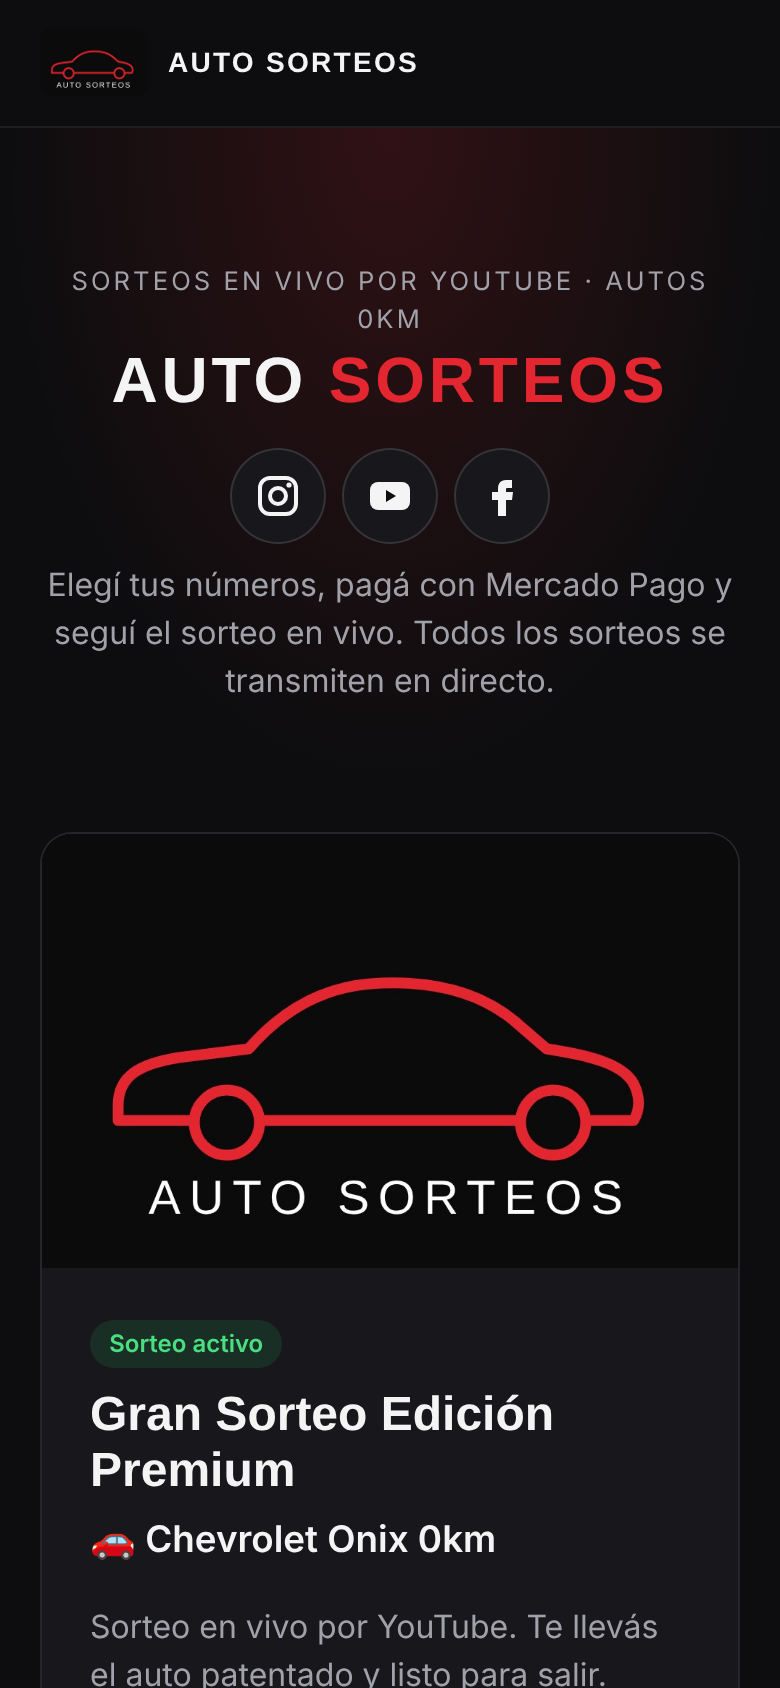
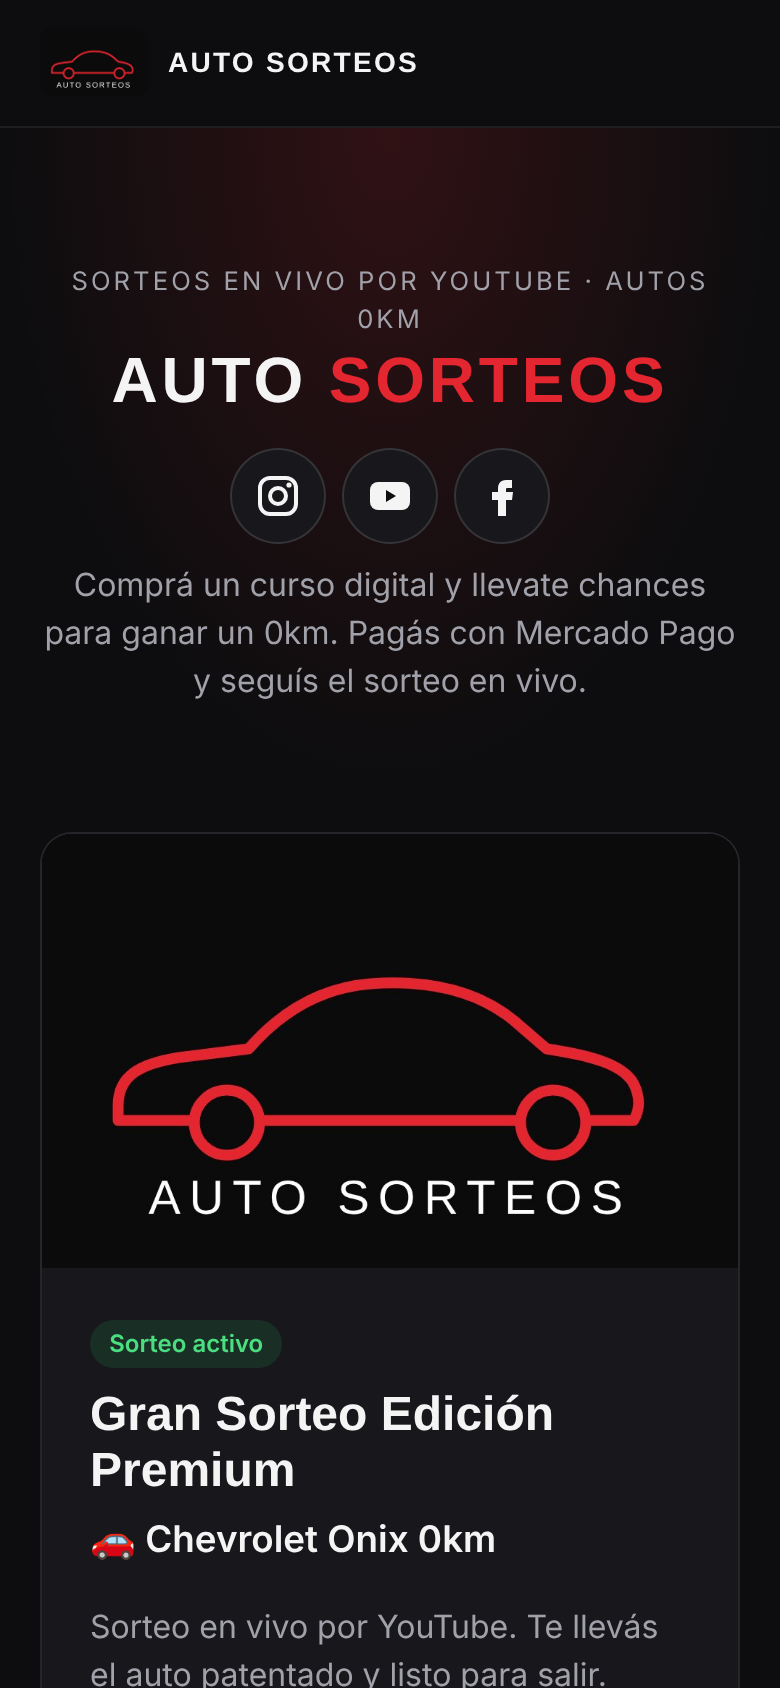
docs: update readme, architecture and roadmap for the pack model

Changed region(s): [[0.0615, 0.3389, 0.9538, 0.4313]]

diff --git a/README.md b/README.md
@@ -6,14 +6,16 @@
 ![PostgreSQL](https://img.shields.io/badge/postgresql-16-4169E1?logo=postgresql&logoColor=white)
 ![Mercado Pago](https://img.shields.io/badge/pagos-Mercado%20Pago-00B1EA)
 
-Plataforma web para organizar **sorteos en vivo de autos 0km**: los participantes eligen sus números (o una promo por cantidad), pagan con **Mercado Pago** y siguen el sorteo por YouTube. El organizador administra todo desde un panel: sorteos, ventas, ventas manuales, número ganador y exportación de compradores.
+Plataforma web para organizar **sorteos en vivo de autos 0km** con un modelo de **venta de cursos digitales**: el participante compra un curso y recibe chances de regalo para el sorteo. Paga con **Mercado Pago**, recibe sus números automáticamente al acreditarse el pago y sigue el sorteo por YouTube. El organizador administra todo desde un panel: cursos, packs de chances, ventas, ventas manuales, número ganador y exportación de compradores.
 
 Desarrollada para una concesionaria y publicada como versión **white-label**: la marca de cada cliente (nombre, logo, colores, redes) se configura en un solo archivo y queda fuera del repositorio.
 
 <p align="center">
-  <img src="docs/screenshots/home-mobile.png" width="240" alt="Landing en celular" />
+  <img src="docs/screenshots/home-mobile.png" width="220" alt="Landing en celular" />
   &nbsp;
-  <img src="docs/screenshots/seleccion-promo-mobile.png" width="240" alt="Selección guiada por promo" />
+  <img src="docs/screenshots/compra-mobile.png" width="220" alt="Elección de pack y oferta Duplicá" />
+  &nbsp;
+  <img src="docs/screenshots/confirmacion-mobile.png" width="220" alt="Confirmación con los números asignados" />
 </p>
 
 <p align="center">
@@ -23,26 +25,27 @@ Desarrollada para una concesionaria y publicada como versión **white-label**: l
 ## Funcionalidades
 
 **Para el participante**
-- Grilla de números en tiempo real (libres, reservados, vendidos), búsqueda y elección al azar.
-- **Promos por cantidad** (ej. 1 × $10.000, 2 × $15.000, 5 × $30.000): al elegir una promo, el sistema guía la selección con un contador y lleva al pago al completar.
-- Siempre cobra la combinación más barata de promos y muestra el ahorro.
-- Pago con Mercado Pago Checkout Pro y página de estado de la compra que funciona como comprobante.
+- Elige un curso y un pack de chances. Cada pack muestra el precio por chance y el ahorro real contra el pack más chico, sin precios tachados inventados.
+- Oferta **"Duplicá tus chances"**: el doble de chances pagando un extra por chance.
+- Paga con Mercado Pago Checkout Pro (también en efectivo, porque no hay reserva que pueda vencer).
+- Recibe sus números **consecutivos** (desde el 100000) apenas se acredita el pago, en una página que funciona como comprobante.
+- Barra de progreso de chances vendidas y bases y condiciones con los precios de cada pack.
 - Página de links para la bio de Instagram, con el sorteo activo y las redes.
 
 **Para el organizador**
-- Crear sorteos, publicar, cerrar la venta y editar promos.
-- Recaudación, números vendidos, reservados y libres.
-- Venta manual (efectivo o transferencia).
+- ABM de cursos con subida del PDF; la descarga se hace con links firmados que vencen.
+- Packs de chances y oferta "Duplicá" editables por sorteo, con vista previa de lo que ve el comprador.
+- Recaudación, chances vendidas, compras, pendientes y compras para revisar.
+- Venta manual (efectivo o transferencia) con asignación de números en el acto.
 - Carga del número ganador con los datos del comprador.
 - Exportación de compradores a CSV (Excel).
 
 ## Lo técnico más interesante
 
-- **Sin números duplicados:** reserva con `SELECT … FOR UPDATE` dentro de una transacción; dos compras simultáneas del mismo número no pueden prosperar.
-- **Reservas que vencen:** el número queda reservado 15 minutos mientras se paga y se libera solo si el pago no llega.
-- **Webhook seguro e idempotente:** valida la firma `x-signature` de Mercado Pago, consulta el pago a la API (no confía en el aviso) y controla el monto. Avisos repetidos no duplican ventas.
-- **Casos borde contemplados:** pagos acreditados tarde o con monto distinto quedan en estado `needs_review` para reintegro.
-- **Precio óptimo con promos:** programación dinámica (problema de la mochila no acotada) para cobrar la combinación más barata.
+- **Números sin duplicados aunque los pagos lleguen a la vez:** cada sorteo tiene un contador que se incrementa con un único `UPDATE … RETURNING` atómico, más un índice único `(sorteo, número)` como red de seguridad. Probado con pagos simultáneos contra **PostgreSQL real en el CI**.
+- **Webhook seguro e idempotente:** valida la firma `x-signature` de Mercado Pago, consulta el pago a la API (no confía en el aviso), controla el monto y bloquea la orden (`FOR UPDATE`). Avisos repetidos no asignan números de nuevo.
+- **El total lo calcula siempre el backend**, en centavos enteros. El frontend solo muestra lo que devuelve la API.
+- **Archivos seguros:** el PDF se valida por contenido (magic bytes), se guarda fuera del repo detrás de una interfaz intercambiable (disco hoy, S3/R2 después) y se descarga con un JWT de propósito único que vence.
 - **Modo demo:** una API simulada dentro del navegador permite mostrar el producto completo sin servidor.
 
 Más detalle en [`docs/ARCHITECTURE.md`](docs/ARCHITECTURE.md).
@@ -54,7 +57,7 @@ Más detalle en [`docs/ARCHITECTURE.md`](docs/ARCHITECTURE.md).
 | Backend | Node.js 22, Express 5, Sequelize, PostgreSQL, JWT, bcrypt, Helmet, rate limiting |
 | Pagos | Mercado Pago Checkout Pro + Webhooks |
 | Frontend | React 18 (Create React App), React Router |
-| Tests | `node:test` + Supertest (SQLite en memoria) |
+| Tests | `node:test` + Supertest, con SQLite en memoria y PostgreSQL 16 en el CI |
 | Infra | Docker, Docker Compose, GitHub Actions |
 
 ## Cómo correrlo
@@ -86,20 +89,20 @@ Para probar pagos se usan las **credenciales y usuarios de prueba** de Mercado P
 
 | Método | Ruta | Descripción |
 |---|---|---|
-| GET | `/api/raffles` | Sorteos publicados |
-| GET | `/api/raffles/:id/numbers` | Estado de la grilla (`0` libre, `1` reservado, `2` vendido) |
-| POST | `/api/orders` | Reserva números y devuelve la URL de pago |
-| GET | `/api/orders/:id` | Estado de una compra |
-| GET | `/api/raffles/:id/packs` | Packs a la venta con el total de "Duplicá" ya calculado |
+| GET | `/api/raffles` | Sorteos publicados, con chances vendidas y precio desde |
+| GET | `/api/raffles/:id/packs` | Packs a la venta: precio por chance, ahorro real y total con "Duplicá" |
+| POST | `/api/raffles/:id/quote` | Cotización de una compra (`packId`, `double`) |
 | POST | `/api/raffles/:id/purchases` | Compra de curso + pack (`courseId`, `packId`, `double`, `buyer`): devuelve el link de pago |
-| POST | `/api/raffles/:id/quote` | Cotización de una compra (`packId`, `double`): el total lo calcula siempre el backend |
+| GET | `/api/orders/:id` | Estado de una compra y números asignados |
 | GET | `/api/courses` | Cursos activos |
 | GET | `/api/courses/download?token=` | Descarga del PDF con link firmado y con vencimiento |
-| POST | `/api/webhooks/mercadopago` | Notificaciones de pago |
+| POST | `/api/webhooks/mercadopago` | Notificaciones de pago: asigna los números al aprobarse |
 | POST | `/api/admin/login` | Login del administrador (JWT) |
 | GET/PUT | `/api/admin/raffles/:id/packs` | Packs del sorteo y oferta "Duplicá" (alta, edición y baja en una transacción) |
 | GET/POST/PATCH/DELETE | `/api/admin/courses` | ABM de cursos con subida de PDF (`multipart/form-data`) |
-| … | `/api/admin/*` | Sorteos, estadísticas, ventas, ganador, exportación |
+| POST | `/api/admin/orders/manual` | Venta manual: asigna los números en el acto |
+| POST | `/api/admin/raffles/:id/winner` | Busca al dueño del número ganador |
+| … | `/api/admin/*` | Sorteos, estadísticas, compras, exportación CSV |
 
 ## Cómo se trabaja
 

diff --git a/docs/ARCHITECTURE.md b/docs/ARCHITECTURE.md
@@ -23,36 +23,38 @@ sequenceDiagram
   participant DB as PostgreSQL
   participant MP as Mercado Pago
 
-  C->>W: Elige números
-  W->>API: POST /api/orders
-  API->>DB: SELECT ... FOR UPDATE (números libres)
-  API->>DB: Reserva 15 min + crea orden
+  C->>W: Elige curso + pack (+ "Duplicá")
+  W->>API: POST /api/raffles/:id/purchases
+  API->>API: Cotiza (packs.quote, en centavos)
+  API->>DB: Crea la orden pendiente (sin números)
   API->>MP: Crea preferencia (external_reference = orden)
   API-->>W: checkoutUrl
   W->>MP: Redirige al checkout
   C->>MP: Paga
   MP->>API: Webhook (x-signature)
   API->>MP: GET /payments/:id (no confía en el aviso)
-  API->>DB: Valida monto, marca números vendidos
+  API->>DB: Bloquea la orden (FOR UPDATE) y valida el monto
+  API->>DB: UPDATE nextNumber = nextNumber + N RETURNING (bloque consecutivo)
+  API->>DB: Inserta las chances y aprueba la orden
   MP-->>W: Vuelve a /compra/:id
-  W->>API: GET /api/orders/:id (polling)
+  W->>API: GET /api/orders/:id (polling hasta ver los números)
 ```
 
 ## Decisiones
 
 | Decisión | Motivo |
 |---|---|
-| Bloqueo de filas con `SELECT … FOR UPDATE` | Dos compradores no pueden quedarse con el mismo número aunque compren en el mismo milisegundo. |
-| Reserva con vencimiento (15 min) | El número queda tomado mientras se paga, y se libera solo si no se paga. |
-| Consultar el pago a Mercado Pago en el webhook | El cuerpo del aviso no es confiable; se valida firma, estado y monto contra la API. |
-| Webhook idempotente | Mercado Pago reintenta avisos; procesar dos veces el mismo pago no duplica ventas. |
-| Estado `needs_review` | Pagos con monto distinto o acreditados después de que el número se vendió quedan para revisión manual y reintegro. |
-| Medios en efectivo excluidos | Se acreditan días después, cuando la reserva ya venció. |
-| Precio con promos calculado en el backend | El total que se cobra nunca depende del navegador. La misma función corre en el frontend solo para mostrarlo. |
-| Números consecutivos asignados al confirmarse el pago | El comprador elige un pack, no números. Sin reserva previa no hay números "tomados" por compras que nunca se pagan. |
+| Números asignados recién al confirmarse el pago | El comprador elige un pack, no números. Sin reserva previa no hay números "tomados" por compras que nunca se pagan, ni vencimientos que administrar. |
 | Contador por sorteo con un `UPDATE … RETURNING` atómico | La base serializa los UPDATE sobre la misma fila: pagos simultáneos reciben bloques distintos. Se evita "leer y después escribir", donde aparecen los duplicados. |
 | Índice único `(RaffleId, number)` | Red de seguridad: la base rechaza un número repetido aunque haya un bug en la lógica. |
 | El contador nunca retrocede | Un número anulado (reintegro, contracargo) no se vuelve a asignar: cada número identifica una sola compra para siempre. |
+| Consultar el pago a Mercado Pago en el webhook | El cuerpo del aviso no es confiable; se valida firma, estado y monto contra la API. |
+| Webhook idempotente con la orden bloqueada | Mercado Pago reintenta avisos; procesar dos veces el mismo pago no asigna números de nuevo. |
+| Estado `needs_review` | Pagos con un monto distinto al de la orden quedan para revisión manual y reintegro. |
+| Total calculado en el backend, en centavos enteros | El total que se cobra nunca depende del navegador, y no hay errores de coma flotante. |
+| Ahorro calculado contra el pack más chico | Se muestra un ahorro real (precio por chance), no precios "antes" inventados. |
+| Packs que conservan su id al editarse | Las compras los referencian; se actualizan, crean y borran dentro de una transacción. |
+| PDF validado por contenido y descargado con un JWT de propósito único | Un archivo renombrado no pasa como PDF, y un token de sesión no sirve como link de descarga. |
 | Tests de concurrencia contra PostgreSQL en el CI | SQLite no admite transacciones en paralelo; la garantía se prueba en la misma base que producción. |
 | Marca como configuración (`brand.js`) | El mismo código sirve para varios clientes; los datos de cada cliente quedan fuera del repo. |
 | Modo demo con API simulada | Permite mostrar el producto completo sin servidor ni cobros reales. |
@@ -63,17 +65,21 @@ sequenceDiagram
 backend/
   src/
     config.js            variables de entorno
-    db.js                modelos Sequelize
-    routes/              public, admin, webhooks
+    db.js                modelos Sequelize: Raffle, Pack, Course, Order, Chance
+    routes/              public, admin, courses, webhooks
     services/
-      orders.js          reservas, pagos, vencimientos, venta manual
-      pricing.js         promos por cantidad (programación dinámica)
+      packs.js           packs, oferta "Duplicá" y cotización (única fuente del total)
+      purchases.js       compra de curso + pack y confirmación del pago
+      numbers.js         asignación de números consecutivos
+      orders.js          sorteos, webhook, venta manual, ganador, estadísticas
+      courses.js         cursos y links de descarga firmados
+      storage.js         almacenamiento de archivos (disco hoy, S3/R2 después)
       mercadopago.js     preferencia, consulta de pago, firma del webhook
   test/                  tests de integración (node:test + supertest)
 frontend/
   src/
     brand.js             nombre, colores, logo y redes del cliente
-    pages/               landing, compra, estado, links, admin
-    components/          promos, redes
+    pages/               landing, compra, estado, bases, links, admin
+    components/          editor de packs, barra de progreso, redes
     demo/                API simulada para la demo
 ```

diff --git a/docs/ROADMAP.md b/docs/ROADMAP.md
@@ -1,40 +1,35 @@
 # Roadmap
 
-Sprints de 1 semana. Cada ítem es un issue en GitHub.
+Sprints de 1 semana. Cada ítem es un issue en GitHub, agrupado en un milestone.
 
 ## Sprint 0 · Base del sistema — `v0.1.0` ✅
 
 - [x] API REST con Express + Sequelize + PostgreSQL
-- [x] Modelos: sorteos, números, órdenes
-- [x] Reserva de números con bloqueo (`SELECT … FOR UPDATE`) y vencimiento
 - [x] Integración con Mercado Pago Checkout Pro + webhook firmado
-- [x] Promos por cantidad con cálculo del precio óptimo
 - [x] Panel de administración (JWT): sorteos, ventas, venta manual, ganador, exportación CSV
-- [x] Frontend React: landing, grilla de números, selección guiada por promo, estado de compra, página de links
+- [x] Frontend React: landing, compra, estado de compra, página de links
 - [x] Modo demo con API simulada en el navegador
-- [x] Tests de integración del flujo de compra y de precios
 - [x] CI con GitHub Actions
 
-## Sprint 1 · Modelo de productos y participación gratuita — `v0.2.0`
+## Sprint 1 · Cursos y compra de chances — `v0.2.0`
 
-- [ ] Productos (cursos digitales) asociados a un sorteo: cada pack otorga N chances
-- [ ] Asignación automática de números al confirmarse el pago
-- [ ] Participación gratuita "sin obligación de compra" (registro con DNI, 1 chance por persona)
-- [ ] Panel del comprador: ver productos comprados y números asignados
-- [ ] ABM de productos y su contenido en el panel de administración
-- [ ] Bases y condiciones con la leyenda obligatoria en todas las pantallas de venta
+- [x] #3 Cursos con PDF descargable
+- [x] #4 Packs de chances configurables y oferta "Duplicá"
+- [x] #5 Números consecutivos asignados al confirmarse el pago
+- [x] #6 Nueva página de compra: curso + pack (reemplaza la grilla de números del Sprint 0)
+- [ ] #7 Email de confirmación con números y descarga del curso
+- [ ] #8 Página "Mis compras" con acceso por link mágico
 
-## Sprint 2 · Producción — `v0.3.0`
+## Sprint 2 · Participación gratuita, control y sorteo — `v0.3.0`
 
-- [ ] Migraciones con `sequelize-cli` (reemplazar `sync()`)
-- [ ] Deploy de la API + PostgreSQL en Railway
-- [ ] Deploy del frontend en Netlify con dominio propio y HTTPS
-- [ ] Pruebas end-to-end con credenciales y usuarios de prueba de Mercado Pago
-- [ ] Logs y alertas básicas de errores
+- [ ] #9 Participación gratuita "sin obligación de compra"
+- [ ] #10 Contracargos y devoluciones anulan los números
+- [ ] #11 Buscador de números y participantes en el panel
+- [ ] #12 Sorteo en vivo con registro de auditoría
 
-## Sprint 3 · Comunicación y métricas — `v0.4.0`
+## Sprint 3 · Producción — `v1.0.0`
 
-- [ ] Email al comprador con sus números
-- [ ] Recaudación neta en el panel (comisión de Mercado Pago informada por la API)
-- [ ] Registro de auditoría del sorteo (quién cargó el ganador y cuándo)
-- [ ] Tests del frontend con React Testing Library
+- [ ] #13 Migraciones de base de datos con `sequelize-cli`
+- [ ] #14 Deploy en Railway y Netlify con dominio propio
+- [ ] #15 Alerta de conexión con Mercado Pago en el panel
+- [ ] #16 Pruebas end-to-end con credenciales de prueba de Mercado Pago

diff --git a/CHANGELOG.md b/CHANGELOG.md
@@ -18,9 +18,18 @@ Formato basado en [Keep a Changelog](https://keepachangelog.com/es-ES/1.1.0/) y 
 - Los números anulados no se reutilizan.
 - Job de CI que corre la suite contra PostgreSQL, incluidos los tests de concurrencia.
 
+- Nueva página de compra mobile first: curso + pack + "Duplicá", con precio por chance, ahorro real y barra de progreso (#6).
+- Pantalla de confirmación con los números asignados.
+- Venta manual por cantidad de chances, con asignación de números en el acto.
+- Meta de chances opcional por sorteo para la barra de progreso.
+
 ### Changed
 - Un curso con compras no se puede eliminar: se desactiva.
-- Las compras por pack admiten medios de pago en efectivo, porque no hay reserva que pueda vencer.
+- Las compras admiten medios de pago en efectivo, porque no hay reserva que pueda vencer.
+- El número ganador se busca entre las chances asignadas; un número anulado no puede ganar.
+
+### Removed
+- Grilla de números, reserva de 15 minutos y promos por cantidad del Sprint 0 (`POST /api/orders`, `GET /api/raffles/:id/numbers`).
 
 ## [0.1.0] - 2026-11-18
 

diff --git a/CONTRIBUTING.md b/CONTRIBUTING.md
@@ -7,7 +7,7 @@
 | `main` | Producción. Solo recibe merges desde `develop` al cerrar un sprint (con tag de versión). |
 | `develop` | Integración. Acá se mergean las funcionalidades terminadas. |
 | `feature/<issue>-<descripcion>` | Una funcionalidad. Ej: `feature/12-participacion-gratuita` |
-| `fix/<issue>-<descripcion>` | Corrección de un bug. Ej: `fix/18-reserva-no-vence` |
+| `fix/<issue>-<descripcion>` | Corrección de un bug. Ej: `fix/21-webhook-monto-distinto` |
 
 Flujo:
 
@@ -37,7 +37,7 @@ Se usa [Conventional Commits](https://www.conventionalcommits.org/es/v1.0.0/):
 | `chore` | Configuración, dependencias, tooling |
 | `ci` | Pipelines |
 
-Ejemplos: `feat(api): reserva de números con vencimiento`, `fix(web): grilla no refresca tras el pago`.
+Ejemplos: `feat(api): add pack quote endpoint`, `fix(web): refresh order status after payment`.
 
 ## Sprints
 
